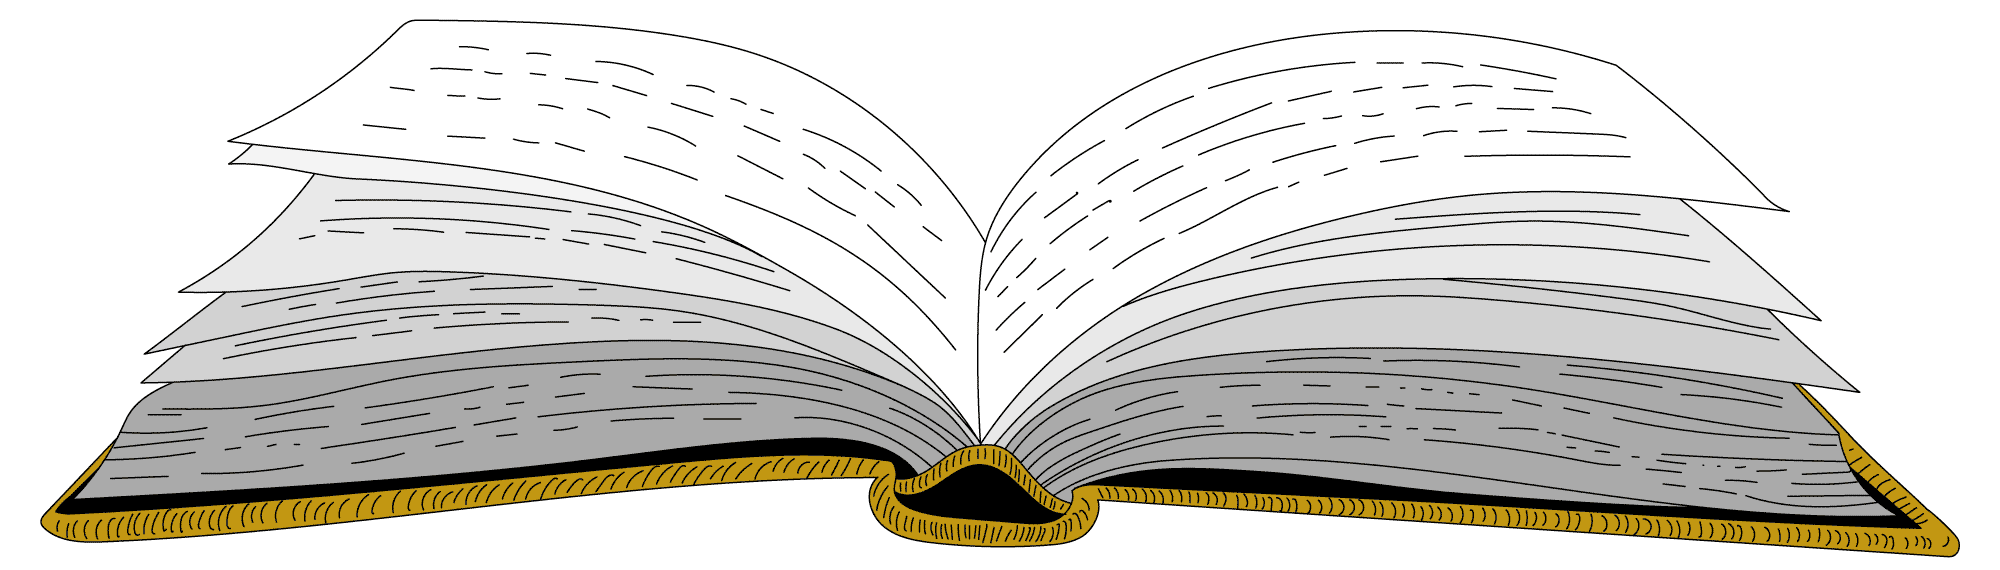
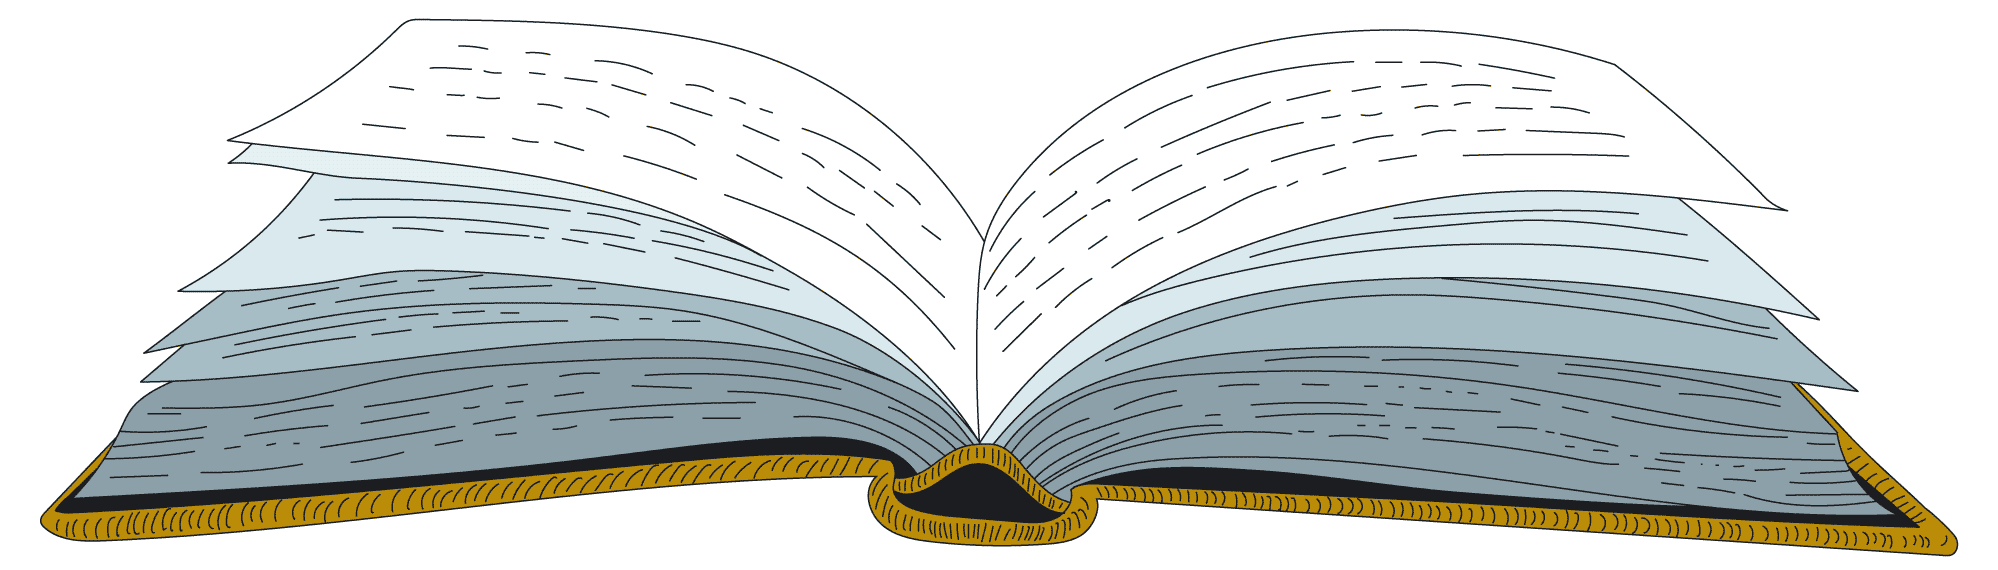
design: adjusting topper pages so they flow better across window sizes. new colors for book illo

diff --git a/src/components/TopperImages.svelte b/src/components/TopperImages.svelte
@@ -20,22 +20,23 @@
 		display: block;
 		margin: auto;
 		width: 90%;
-		mix-blend-mode: multiply;
+		/* mix-blend-mode: multiply; */
 	}
 	.topper-image:nth-of-type(2),
 	.topper-image:nth-of-type(3){
 		z-index: -1;
 		display: block;
 		position: absolute;
-		top: -5vh;
-		left: -170px;
+		top: -50px;
+		left: -140px;
 		margin: auto;
-		width: auto;
-		height: 100vh;
+		width: 550px;
+		max-width: 40vw;
+		height: auto;
 	}
 	.topper-image:nth-of-type(3){
 		left: auto;
-		right: -170px;
+		right: -140px;
 	}
 	.topper-image:nth-of-type(2) img,
 	.topper-image:nth-of-type(3) img{
@@ -43,10 +44,22 @@
 		height: 100%;
 		opacity: 0.3;
 	}
-	@media(max-width: 768px){
+	@media(max-width: 1000px){
 		.topper-image:nth-of-type(2),
 		.topper-image:nth-of-type(3){
-			height: 80vh;
+			width: 450px;
+		}
+	}
+	@media(max-width: 800px){
+		.topper-image:nth-of-type(2),
+		.topper-image:nth-of-type(3){
+			width: 400px;
+		}
+	}
+	@media(max-width: 500px){
+		.topper-image:nth-of-type(2),
+		.topper-image:nth-of-type(3){
+			width: 350px;
 		}
 	}
 </style>

diff --git a/src/components/Game.svelte b/src/components/Game.svelte
@@ -155,20 +155,22 @@
 		color: var(--color-gray-500);
 	}
 
+	/* These are the falling pages that curve down from topper */
 	.page:nth-of-type(2),
 	.page:nth-of-type(3){
 		z-index: -1;
 		display: block;
 		position: absolute;
 		top: -100%;
-		left: -90%;
+		left: -750px;
+		width: 550px;
+		max-width: 40vw;
+		height: auto;
 		margin: auto;
-		width: auto;
-		height: 85vh;
 	}
 	.page:nth-of-type(3){
 		left: auto;
-		right: -90%;
+		right: -750px;
 	}
 	.page:nth-of-type(2) img,
 	.page:nth-of-type(3) img{
@@ -176,12 +178,18 @@
 		height: 100%;
 		opacity: 0.3;
 	}
-	@media(max-width: 900px){
+	@media(max-width: 1400px){
 		.page:nth-of-type(2){
-			left: -75%;
+			left: -550px;
 		}
 		.page:nth-of-type(3){
-			right: -75%;
+			right: -550px;
+		}
+	}
+	@media(max-width: 900px){
+		.page:nth-of-type(2),
+		.page:nth-of-type(3){
+			display: none;
 		}
 	}
 </style>
